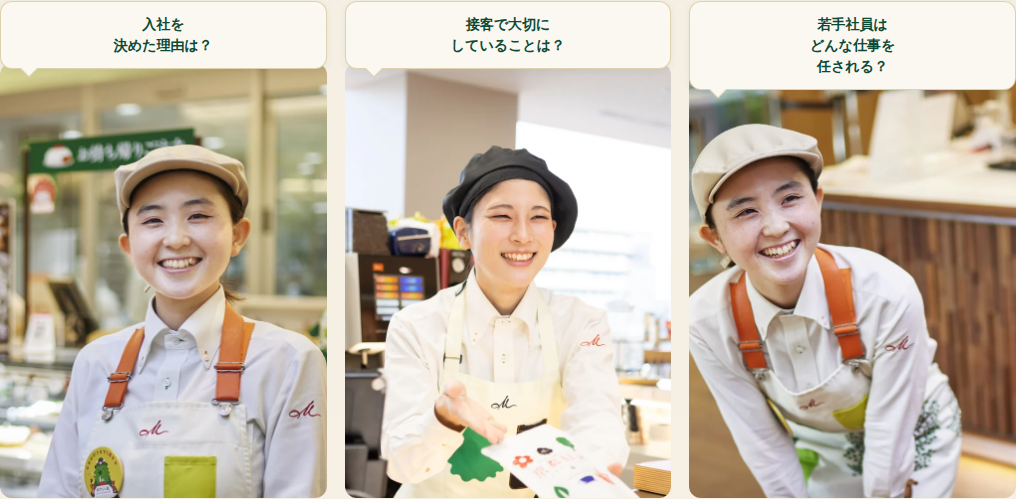
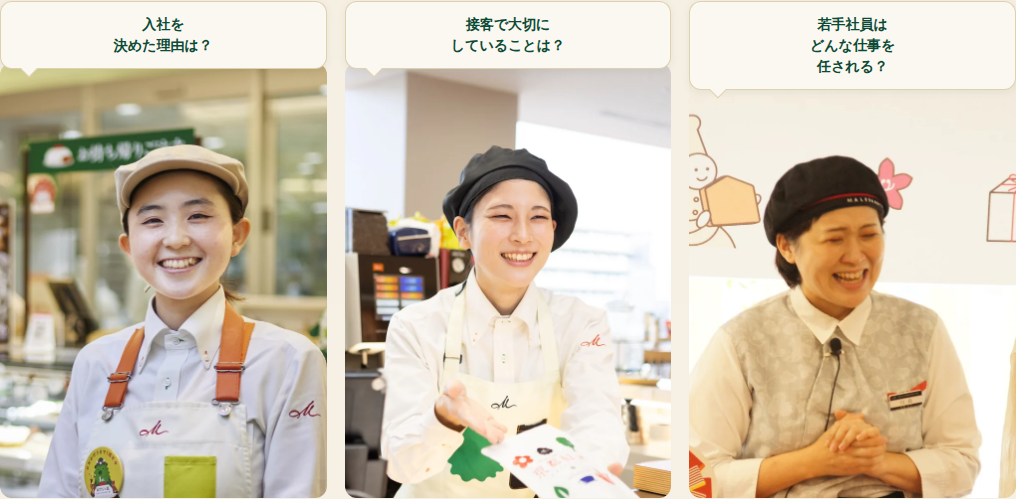
feat(static-lp): 座談会3枚目を大塚さんの写真へ差し替え
- voice-03 … 大塚さん.JPG を使用。吹き出しに顔がかからず、
  お客さま役が画角に入らない範囲で切り出し
- benefit-03（販売スタッフを体験する）… 空いた枠へ
  M_2024_kamikatsura_53_s.jpg（お客さまへ紙袋をお渡し）を配置
- それぞれの alt を写真の内容に合わせて更新

確認: 375〜1920pxで横スクロールなし／壊れ画像なし／コンソールエラーなし、
axe-core（WCAG 2.0/2.1 A・AA）違反0件

Claude-Session: https://claude.ai/code/session_015d8YPaoft4QzEwSfga62S2

Changed region(s): [[0.6713, 0.1503, 1.0, 1.0]]

diff --git a/static-lp/index.html b/static-lp/index.html
@@ -452,7 +452,7 @@
           <p class="bene-text">グループワークを通して、販売スタッフが接客の中で何を考え、どのようにお客さまへ喜びを届けているのかを体験する。聞くだけでは分からない視点が見つかります。</p>
           <p class="bene-tag"><svg width="15" height="15" viewBox="0 0 24 24" aria-hidden="true"><use href="#i-check"/></svg>手を動かして考えるワーク</p>
         </div>
-        <figure class="bene-photo"><img src="assets/images/benefit-03.webp" alt="接客ロールプレイングコンテストで、お客さま役に商品を案内する社員" width="900" height="563" loading="lazy" decoding="async"></figure>
+        <figure class="bene-photo"><img src="assets/images/benefit-03.webp" alt="お客さまへ商品の紙袋をお渡しする販売スタッフ" width="900" height="563" loading="lazy" decoding="async"></figure>
       </li>
 
       <li class="bene-card" data-reveal>
@@ -782,7 +782,7 @@
       </li>
       <li class="voice">
         <p class="bubble">若手社員は<br>どんな仕事を<br>任される？</p>
-        <img src="assets/images/voice-03.webp" alt="カフェでお客さまへドリンクを提供する社員" width="700" height="875" loading="lazy" decoding="async">
+        <img src="assets/images/voice-03.webp" alt="接客ロールプレイングコンテストで笑顔を見せる社員" width="700" height="875" loading="lazy" decoding="async">
       </li>
     </ul>
 

diff --git a/static-lp/README.md b/static-lp/README.md
@@ -299,7 +299,7 @@ source{ utm_source, utm_medium, utm_campaign, utm_content, utm_term, referrer, p
 | 生成した画像 | 使用箇所 | 元ファイル |
 | --- | --- | --- |
 | `benefit-01.webp` | SECTION 03 ②お菓子・食品業界を知る | `ロマンの森_内観_ショーケース1.jpg` |
-| `benefit-03.webp` | SECTION 03 ③販売スタッフを体験する | `大塚さん.JPG`（接客ロールプレイングコンテスト） |
+| `benefit-03.webp` | SECTION 03 ③販売スタッフを体験する | `M_2024_kamikatsura_53_s.jpg`（お客さまへ紙袋をお渡し） |
 | `benefit-04.webp` | SECTION 03 ④働く人と会社の空気を知る | `休憩室_1.jpg` |
 | `prog-01.webp` | プログラム 01 受付・オープニング | `会議室_1.jpg` |
 | `prog-03.webp` | プログラム 02 ロマンライフについて | `移動販売_キッチンカー2.jpeg` |
@@ -311,15 +311,18 @@ source{ utm_source, utm_medium, utm_campaign, utm_content, utm_term, referrer, p
 | `company-case.webp` | SECTION 05 小さい写真 | `ロマンの森_内観_ショーケース2.jpg` |
 | `career-staff.webp` | SECTION 06 キャリア | `M_2024_kamikatsura_57_s.jpg` |
 | `career-handover.webp` | SECTION 07 ひとつのお菓子を届けるまで | `M_2024_kamikatsura_73_s.jpg` |
-| `voice-01/02/03.webp` | SECTION 08 従業員インタビュー | `HP船木さん2.jpg`／`240208romanlife169.jpg`／`HP船木さん(喫茶).jpg` |
+| `voice-01/02/03.webp` | SECTION 08 従業員インタビュー | `HP船木さん2.jpg`／`240208romanlife169.jpg`／`大塚さん.JPG` |
 | `access-store.webp` | 会場アクセス | `ロマンの森_外観.jpg` |
 
 **AI生成画像は残っていません。** `alt` もすべて実際の写真の内容へ書き換えています。
 
 ### 未使用の写真
 
-`HP船木さん＆西川さん2.jpg`／`M_2021_JRrm_086_s.jpg`／`M_2024_kamikatsura_53_s.jpg`／
+`HP船木さん＆西川さん2.jpg`／`HP船木さん(喫茶).jpg`／`M_2021_JRrm_086_s.jpg`／
 `ロマンの森スタッフ_1.jpg`。差し替えのご希望があればお知らせください。
+
+> 座談会の3枚目は `大塚さん.JPG` を使っています（吹き出しに顔がかからないよう、
+> お客さま役が画角に入らない範囲で切り出しています）。
 
 ### いただけていない素材
 
